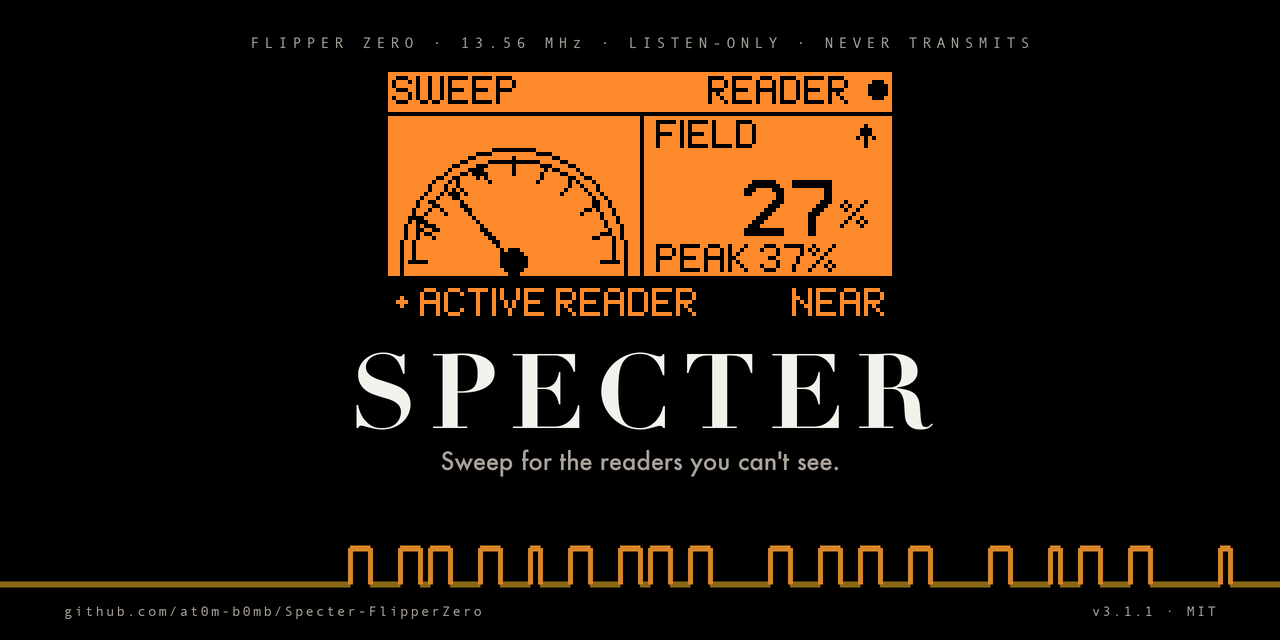
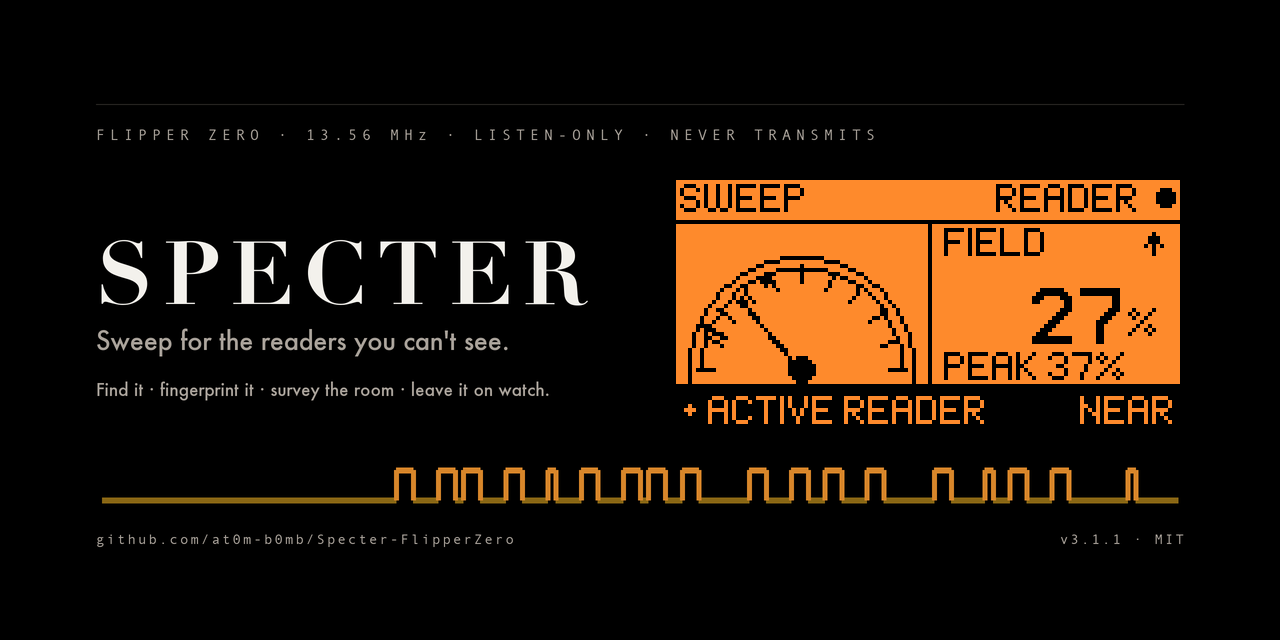
A repo card that survives being cropped
The social preview broke GitHub's safe border on all four sides. Their own
template says to leave a 40pt border - 80px on the 1280x640 canvas - around
anything that matters, because Twitter/X, Discord, Slack and LinkedIn each crop
the card to their own aspect ratio. The old one ran the carrier full bleed (0px
left and right), sat the eyebrow 35px from the top and the footer 18px from the
bottom. It looked correct as a file and lost its URL on half the surfaces it
exists for.

It is also a better card now. The old layout stacked everything down the
centre, which at the ~320px a feed actually renders is a column of small things
with no hierarchy. It uses the banner's composition instead - wordmark left,
the device right, the recorded carrier along the bottom - so the card and the
banner read as one identity rather than two designs of the same name, and the
column that was empty black now carries the four modes in the banner's own
words.

Two things worth keeping:

- assert_safe_border() now runs at the end of render_card() and measures the
  RENDERED pixels rather than trusting the layout constants, because the
  renderer supersamples and rescales and the margin in the source is not the
  margin in the file. It earned its place immediately: the first rebuild came
  out at left 77 / right 77.

- Which is why the card is authored at 96 rather than at 80. Authoring on the
  limit fails the limit every time - a glyph's left bearing puts ink outside
[…]

diff --git a/tools_gen_banner.py b/tools_gen_banner.py
@@ -238,7 +238,43 @@ def render_banner(path, theme, W=2560, H=800, SS=2):
 
 
 # --- social card: 1280x640, authored 1:1 -----------------------------------
+# GitHub's own numbers, from the Repo Card Template and the Settings copy:
+# author at 1280x640, and leave a 40pt border - 80px on this 2x canvas -
+# around anything that matters, because Twitter/X, Discord, Slack and LinkedIn
+# each crop this card to their own aspect ratio. Background art may bleed to
+# the edges. Information may not.
+#
+# The previous card ignored that on all four sides: the carrier ran full bleed
+# (0px left and right), the eyebrow sat 35px down and the footer 18px up. It
+# looked fine as a file and lost its URL on half the surfaces that matter.
+CARD_SAFE = 80  # GitHub's requirement - what assert_safe_border checks
+# Author at 96, not at 80. Type does not start exactly at its anchor (a glyph's
+# left bearing can put ink a pixel outside it) and PIL centres a thick line on
+# its path, so end caps overshoot too. Authoring on the limit therefore fails
+# the limit - by 1 to 3px, which is exactly how this kind of thing ships. The
+# 16px cushion is the difference between "inside the box" and "inside the box
+# once it is actually rendered".
+CARD_PAD = 96
+CARD_L, CARD_R = CARD_PAD, 1280 - CARD_PAD  # 96 .. 1184
+CARD_T, CARD_B = CARD_PAD, 640 - CARD_PAD  # 96 .. 544
+
+# The capture, at an exact 4x, anchored to the right edge of the safe box.
+CARD_CAP_SCALE = 4
+CARD_CAP_W, CARD_CAP_H = 128 * CARD_CAP_SCALE, 64 * CARD_CAP_SCALE  # 512 x 256
+CARD_CAP_X = CARD_R - CARD_CAP_W  # 688
+CARD_CAP_Y = 176
+CARD_GUTTER = 56  # between the wordmark column and the capture
+
+
 def render_card(path, W=1280, H=640, SS=2):
+    """The repo card: the banner's composition, re-cut for 1280x640.
+
+    Same three elements in the same relationship - wordmark left, the device
+    right, the recorded carrier along the bottom - so the card and the banner
+    read as one identity rather than as two designs of the same name. The
+    previous card stacked everything down the centre, which at the ~320px a
+    feed actually renders is a column of small things with no hierarchy.
+    """
     t = THEME["dark"]
     info = series()
 
@@ -249,34 +285,86 @@ def render_card(path, W=1280, H=640, SS=2):
     d = ImageDraw.Draw(img)
 
     f_kick = font(MONO, u(15))
-    # Didot BOLD here, and only here: Regular's thins at 104px are about two
-    # pixels, which is half a pixel once a feed scales this to ~320px, and they
-    # simply vanish. Changing weight to survive the medium is a typographic
+    # Didot BOLD here, and only here: Regular's thins at this size are about two
+    # pixels, which is half a pixel once a feed scales the card to ~320px, and
+    # they simply vanish. Changing weight to survive the medium is a typographic
     # decision; shipping an illegible thumbnail is not.
-    f_word = font(SERIF, u(104), index=2)
-    f_tag = font(SANS, u(24))
+    f_word = font(SERIF, u(88), index=2)
+    f_tag = font(SANS, u(25))
+    f_sub = font(SANS, u(17))
     f_foot = font(MONO, u(14))
 
-    text(d, u(640), u(48),
+    # Structure only - a hairline is not information, so it may span the box.
+    d.line([u(CARD_L), u(104), u(CARD_R), u(104)], fill=t["rule"], width=max(1, u(1)))
+
+    text(d, u(CARD_L), u(140),
          "FLIPPER ZERO · 13.56 MHz · LISTEN-ONLY · NEVER TRANSMITS",
-         f_kick, t["second"], u(5), anchor="ms")
+         f_kick, t["second"], u(5))
 
-    text(d, u(640), u(428), "SPECTER", f_word, t["ink"], u(12), anchor="ms")
-    text(d, u(640), u(470), "Sweep for the readers you can't see.", f_tag, t["second"], anchor="ms")
+    word_w = measure(d, "SPECTER", f_word, u(10)) / SS
+    limit = CARD_CAP_X - CARD_GUTTER - CARD_L
+    assert word_w <= limit, (
+        f"wordmark is {word_w:.0f}px but only {limit}px of column clears the capture")
+    text(d, u(CARD_L), u(304), "SPECTER", f_word, t["ink"], u(10))
+    text(d, u(CARD_L), u(350), "Sweep for the readers you can't see.", f_tag, t["second"])
+    # The four modes, in the banner's own words. This column would otherwise
+    # run 120px of empty black between the tagline and the carrier, and on a
+    # card the size of a feed thumbnail that space is the only chance to say
+    # what the thing actually does.
+    sub = "Find it · fingerprint it · survey the room · leave it on watch."
+    sub_w = measure(d, sub, f_sub) / SS
+    assert sub_w <= CARD_CAP_X - CARD_GUTTER - CARD_L, f"mode line is {sub_w:.0f}px"
+    text(d, u(CARD_L), u(396), sub, f_sub, t["second"])
 
-    # full bleed: the same recording as the banner, so both show one moment
-    carrier_band(d, info["bits"], 0, u(1280), u(548), u(584), t["up"], t["down"],
-                 max(1, u(6)), max(1, u(5)))
+    # The signature element, and therefore INFORMATION: it stays inside the safe
+    # box rather than bleeding, unlike on the banner where the canvas is the
+    # README's own full width and nothing crops it.
+    #
+    # Inset by half a stroke. PIL centres a width-w line on the path, so a band
+    # whose first column sits exactly on the safe edge puts three pixels of ink
+    # outside it - which is precisely what the assert below caught, at 77px.
+    band_pad = 6
+    carrier_band(d, info["bits"], u(CARD_L + band_pad), u(CARD_R - band_pad),
+                 u(470), u(500), t["up"], t["down"], max(1, u(6)), max(1, u(5)))
 
-    text(d, u(64), u(616), "github.com/at0m-b0mb/Specter-FlipperZero", f_foot, t["second"], u(2))
-    text(d, u(1216), u(616), f"v{info['version']} · MIT", f_foot, t["second"], u(2), anchor="rs")
+    text(d, u(CARD_L), u(544), "github.com/at0m-b0mb/Specter-FlipperZero",
+         f_foot, t["second"], u(2))
+    text(d, u(CARD_R), u(544), f"v{info['version']} · MIT",
+         f_foot, t["second"], u(2), anchor="rs")
 
     out = img.resize((W, H), Image.LANCZOS)
-    # No mount and no frame: the capture's own ground is already true black, so
-    # a frame here would be a box drawn around nothing.
-    paste_capture(out, "ss0.png", 384, 68, 4)
+    # No mount and no frame: the capture is two colours against true black and
+    # defines its own edge, so a frame would be a box drawn around nothing.
+    paste_capture(out, "ss0.png", CARD_CAP_X, CARD_CAP_Y, CARD_CAP_SCALE)
     out.save(path)
+    assert_safe_border(path, CARD_SAFE)
     print("wrote", path, out.size, "[card]")
+
+
+def assert_safe_border(path, margin):
+    """Measure the RENDERED pixels, never the layout constants.
+
+    The renderer supersamples and rescales, so the margin in the source is not
+    the margin in the file - which is exactly how a card authored with a 110px
+    margin once shipped with a 36px one. This is the check that would have
+    caught it.
+    """
+    im = Image.open(path).convert("RGB")
+    W, H = im.size
+    px = im.load()
+    bg = px[2, 2]
+    cols = [x for x in range(W) if any(px[x, y] != bg for y in range(H))]
+    rows = [y for y in range(H) if any(px[x, y] != bg for x in range(W))]
+    if not cols or not rows:
+        raise AssertionError(f"{path}: nothing drawn")
+    l, r, t_, b = min(cols), max(cols), min(rows), max(rows)
+    worst = min(l, W - 1 - r, t_, H - 1 - b)
+    if worst < margin:
+        raise AssertionError(
+            f"{os.path.basename(path)} breaks GitHub's {margin}px safe border: "
+            f"left {l} right {W - 1 - r} top {t_} bottom {H - 1 - b}")
+    print(f"  safe border OK: left {l} right {W - 1 - r} top {t_} bottom {H - 1 - b} "
+          f"(need >= {margin})")
 
 
 # --- mark: one poll cycle at the measured duty -----------------------------
